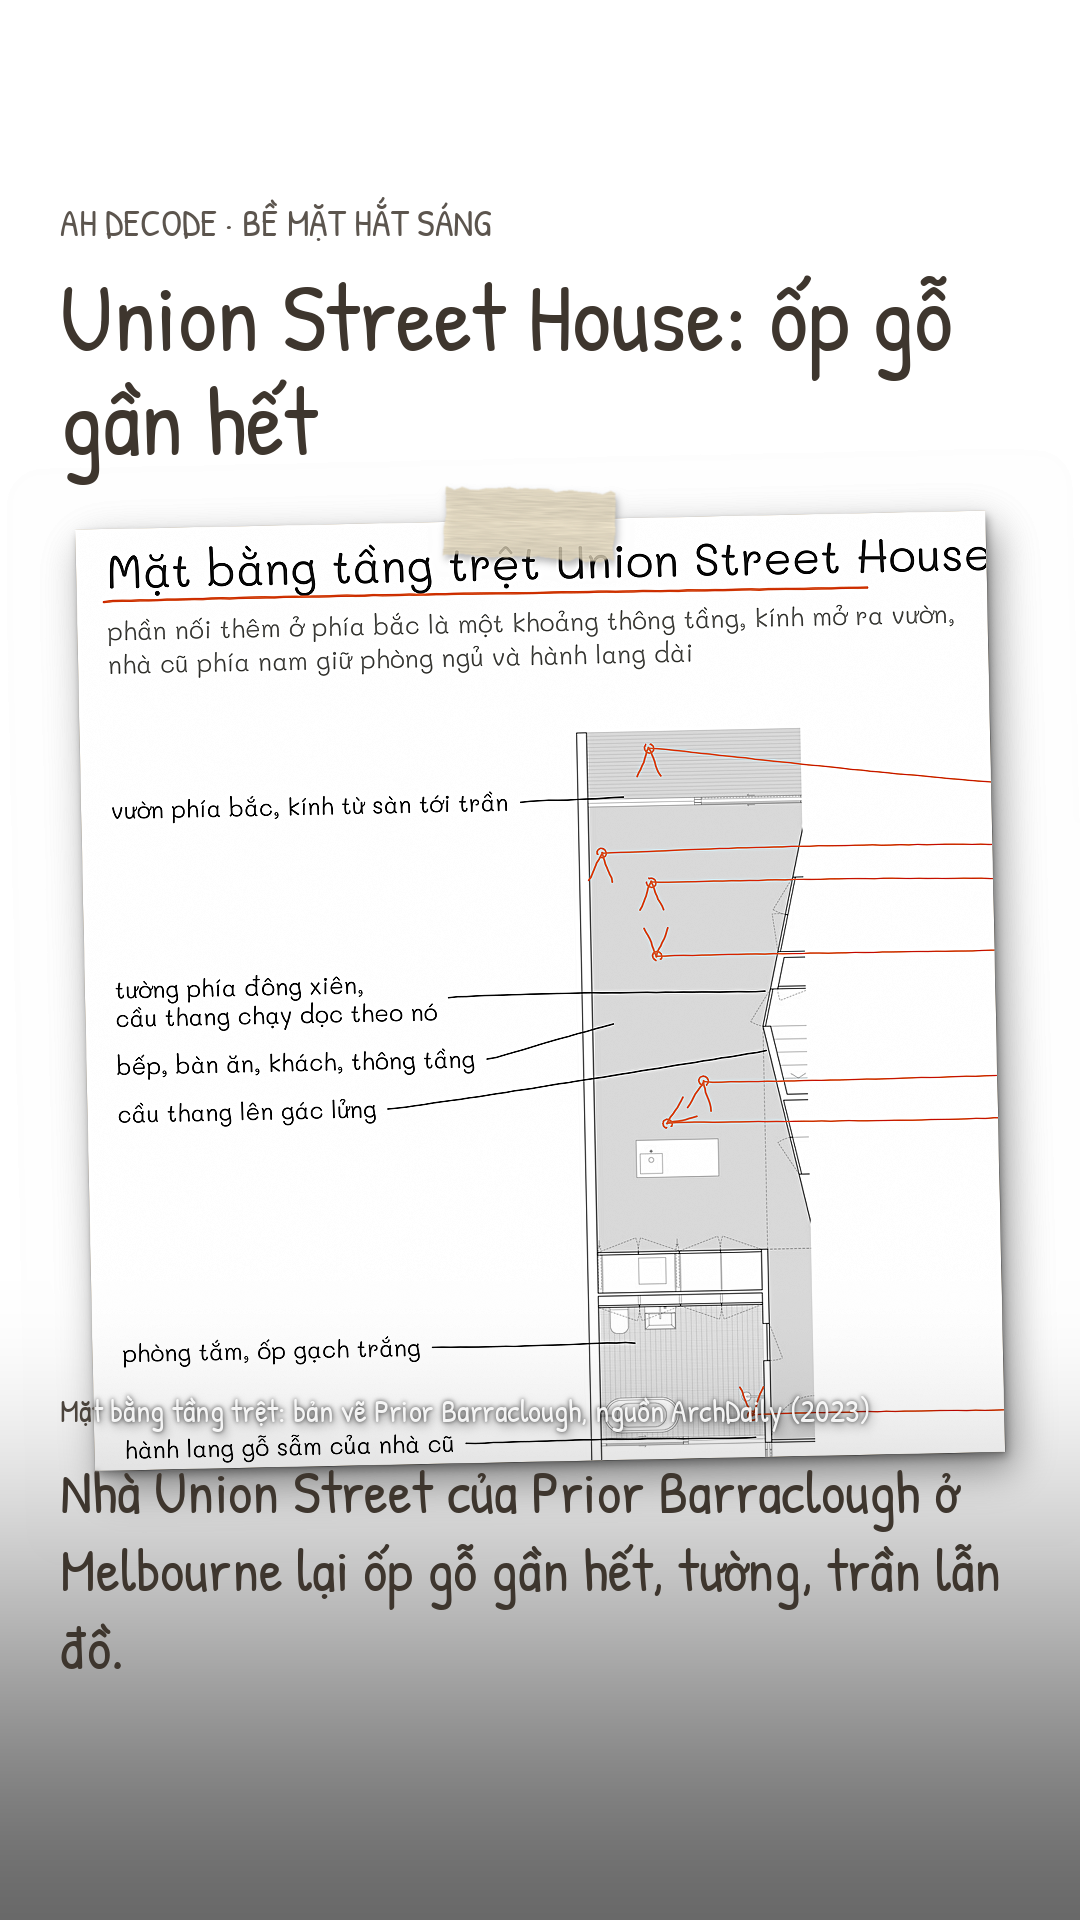
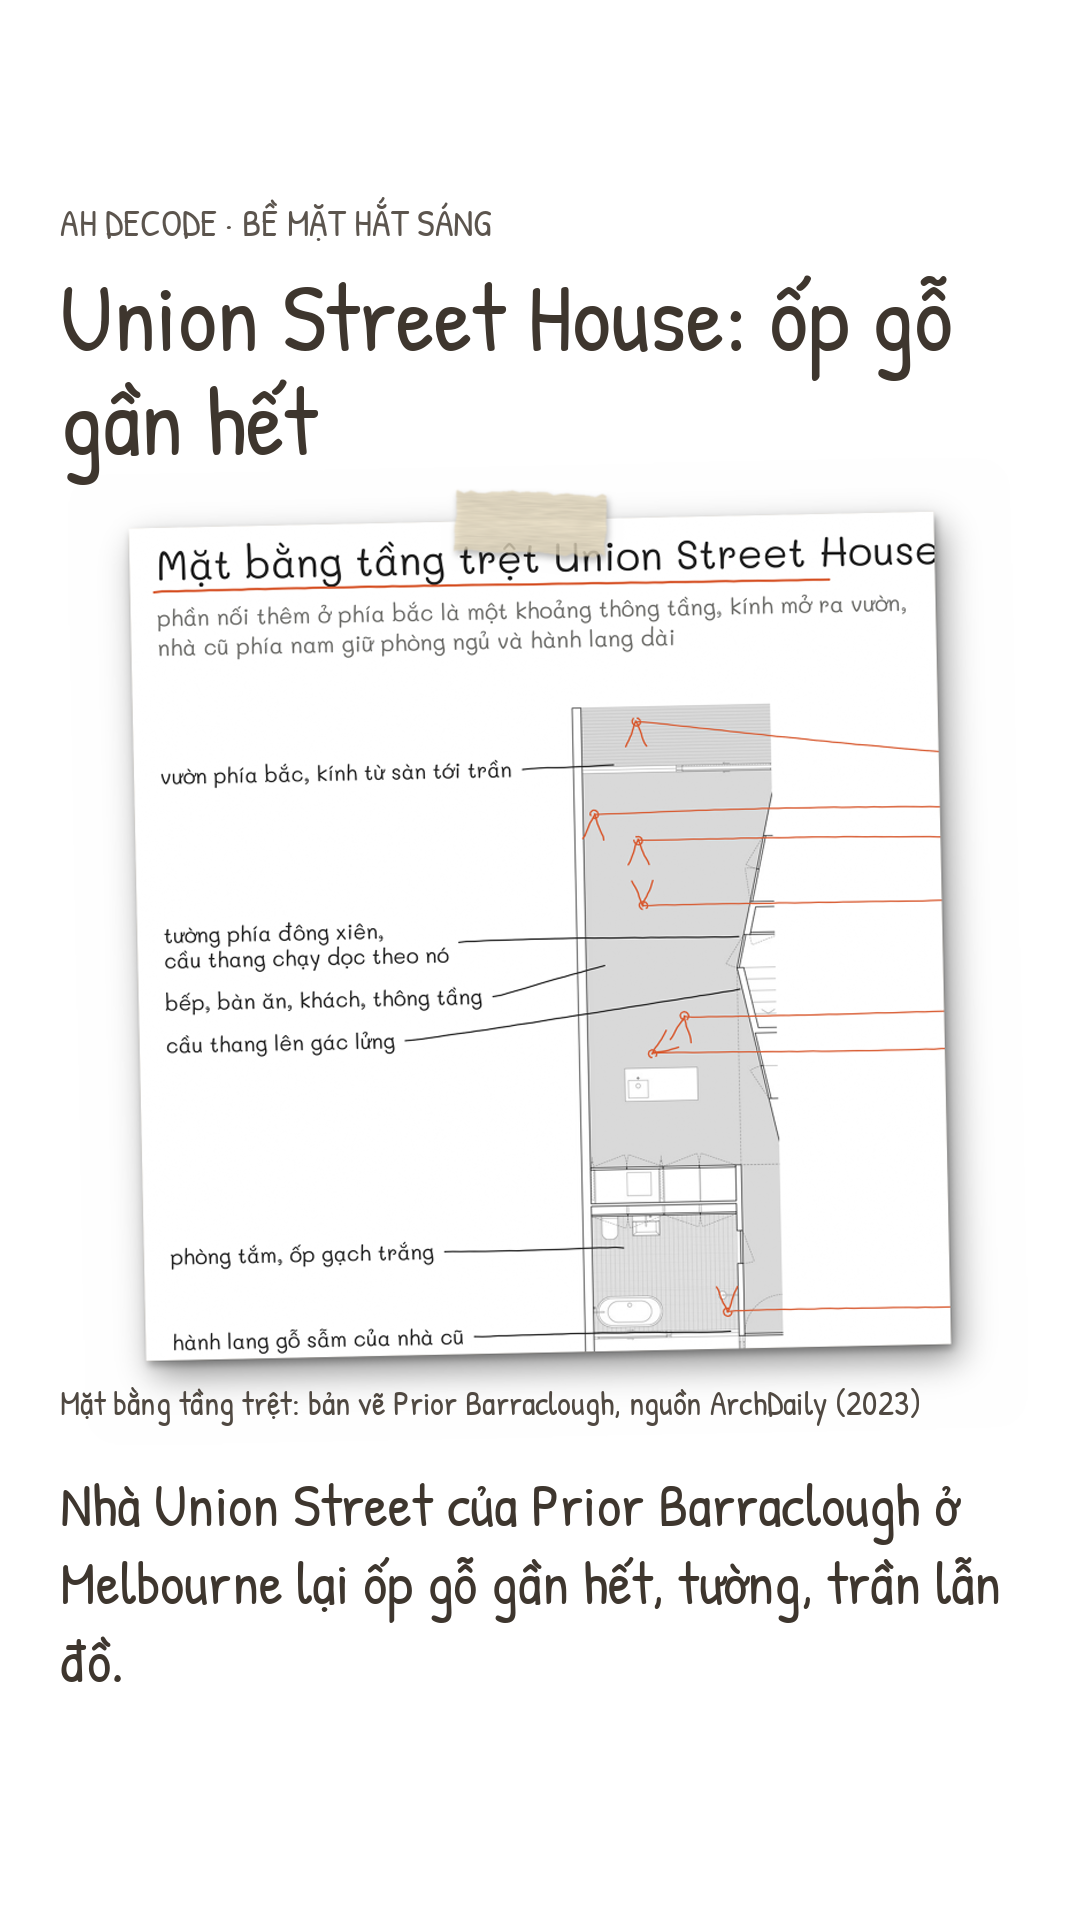
Tập 7: hạ zoom mặt bằng để chữ không đè bản vẽ
Claude-Session: https://claude.ai/code/session_01SFeZZHNvcw1VbkvnnHQjv6

diff --git a/inbox/out/2026-10-21_be-mat-hat-sang/engine_ep07/gen_ep07.py b/inbox/out/2026-10-21_be-mat-hat-sang/engine_ep07/gen_ep07.py
@@ -26,10 +26,10 @@ SC = [
          vo="Nên trần cần sáng nhất, rồi tới tường, mặt bàn, sàn. Mặt mờ cho ánh sáng tỏa đều."),
     dict(part="C", img="sodo9", head="Gạch bóng kính: vệt nắng chói", cam=("C", 1.25, ("top", 520)), dark=False, dd=[],
          vo="Nhà phố hay lát gạch bóng kính cho dễ lau, rồi trên sàn hiện vệt nắng chói."),
-    dict(part="E", img="mb", head="Union Street House: ốp gỗ gần hết", cam=("C", 1.3, ("top", 520)), dark=False, dd=[],
+    dict(part="E", img="mb", head="Union Street House: ốp gỗ gần hết", cam=("C", 1.15, ("top", 520)), dark=False, dd=[],
          vo="Nhà Union Street của Prior Barraclough ở Melbourne lại ốp gỗ gần hết, tường, trần lẫn đồ.",
          tts="Nhà Diu-ni-ơn Xtrít của Prai-ơ Ba-ra-clo ở Meo-bơn lại ốp gỗ gần hết, tường, trần lẫn đồ."),
-    dict(part="E", img="mb", head="Gỗ hắt ít, bù bằng kính hai đầu", cam=("C", 1.3, ("top", 520)), dark=False, dd=[],
+    dict(part="E", img="mb", head="Gỗ hắt ít, bù bằng kính hai đầu", cam=("C", 1.15, ("top", 520)), dark=False, dd=[],
          vo="Gỗ hắt ít sáng hơn tường trắng, nên họ bù bằng kính ở hai đầu nhà."),
     dict(part="E", img="main", head="Gỗ mờ: không có điểm chói", cam=((900, 1000), 1.5, ("top", 540)), dark=True, dd=["arr_lam", "lab_lam", "lab_cauthang"],
          vo="Ánh sáng qua vách lam chuyển đều trên tường và mặt dưới cầu thang. Không có điểm chói nào."),

diff --git a/inbox/out/2026-10-21_be-mat-hat-sang/engine_ep07/engine_ep07.py b/inbox/out/2026-10-21_be-mat-hat-sang/engine_ep07/engine_ep07.py
@@ -572,9 +572,9 @@ SCENES = [
     dict(t="20.2–26.2s", img="sodo9", head="Gạch bóng kính: vệt nắng chói", vo="Nhà phố hay lát gạch bóng kính cho dễ lau, rồi trên sàn hiện vệt nắng chói.",
          cam=('C', 1.25, ('top', 520)), dark=False, dd=[]),
     dict(t="26.2–32.2s", img="mb", head="Union Street House: ốp gỗ gần hết", vo="Nhà Union Street của Prior Barraclough ở Melbourne lại ốp gỗ gần hết, tường, trần lẫn đồ.",
-         cam=('C', 1.3, ('top', 520)), dark=False, dd=[]),
+         cam=('C', 1.15, ('top', 520)), dark=False, dd=[]),
     dict(t="32.2–37.9s", img="mb", head="Gỗ hắt ít, bù bằng kính hai đầu", vo="Gỗ hắt ít sáng hơn tường trắng, nên họ bù bằng kính ở hai đầu nhà.",
-         cam=('C', 1.3, ('top', 520)), dark=False, dd=[]),
+         cam=('C', 1.15, ('top', 520)), dark=False, dd=[]),
     dict(t="37.9–44.5s", img="main", head="Gỗ mờ: không có điểm chói", vo="Ánh sáng qua vách lam chuyển đều trên tường và mặt dưới cầu thang. Không có điểm chói nào.",
          cam=((900, 1000), 1.5, ('top', 540)), dark=True, dd=['arr_lam', 'lab_lam', 'lab_cauthang']),
     dict(t="44.5–51.8s", img="inox", head="Bếp đổi hẳn: hốc inox bóng", vo="Bếp, chỗ cần sáng nhất, thì đổi hẳn. Hốc bếp bọc inox bóng, phản chiếu cả ánh sáng lẫn đồ vật.",

diff --git a/inbox/out/2026-10-21_be-mat-hat-sang/engine_ep07/engine_video_ep07.py b/inbox/out/2026-10-21_be-mat-hat-sang/engine_ep07/engine_video_ep07.py
@@ -573,9 +573,9 @@ SCENES = [
     dict(t="20.2–26.2s", img="sodo9", head="Gạch bóng kính: vệt nắng chói", vo="Nhà phố hay lát gạch bóng kính cho dễ lau, rồi trên sàn hiện vệt nắng chói.",
          cam=('C', 1.25, ('top', 520)), dark=False, dd=[]),
     dict(t="26.2–32.2s", img="mb", head="Union Street House: ốp gỗ gần hết", vo="Nhà Union Street của Prior Barraclough ở Melbourne lại ốp gỗ gần hết, tường, trần lẫn đồ.",
-         cam=('C', 1.3, ('top', 520)), dark=False, dd=[]),
+         cam=('C', 1.15, ('top', 520)), dark=False, dd=[]),
     dict(t="32.2–37.9s", img="mb", head="Gỗ hắt ít, bù bằng kính hai đầu", vo="Gỗ hắt ít sáng hơn tường trắng, nên họ bù bằng kính ở hai đầu nhà.",
-         cam=('C', 1.3, ('top', 520)), dark=False, dd=[]),
+         cam=('C', 1.15, ('top', 520)), dark=False, dd=[]),
     dict(t="37.9–44.5s", img="main", head="Gỗ mờ: không có điểm chói", vo="Ánh sáng qua vách lam chuyển đều trên tường và mặt dưới cầu thang. Không có điểm chói nào.",
          cam=((900, 1000), 1.5, ('top', 540)), dark=True, dd=['arr_lam', 'lab_lam', 'lab_cauthang']),
     dict(t="44.5–51.8s", img="inox", head="Bếp đổi hẳn: hốc inox bóng", vo="Bếp, chỗ cần sáng nhất, thì đổi hẳn. Hốc bếp bọc inox bóng, phản chiếu cả ánh sáng lẫn đồ vật.",
